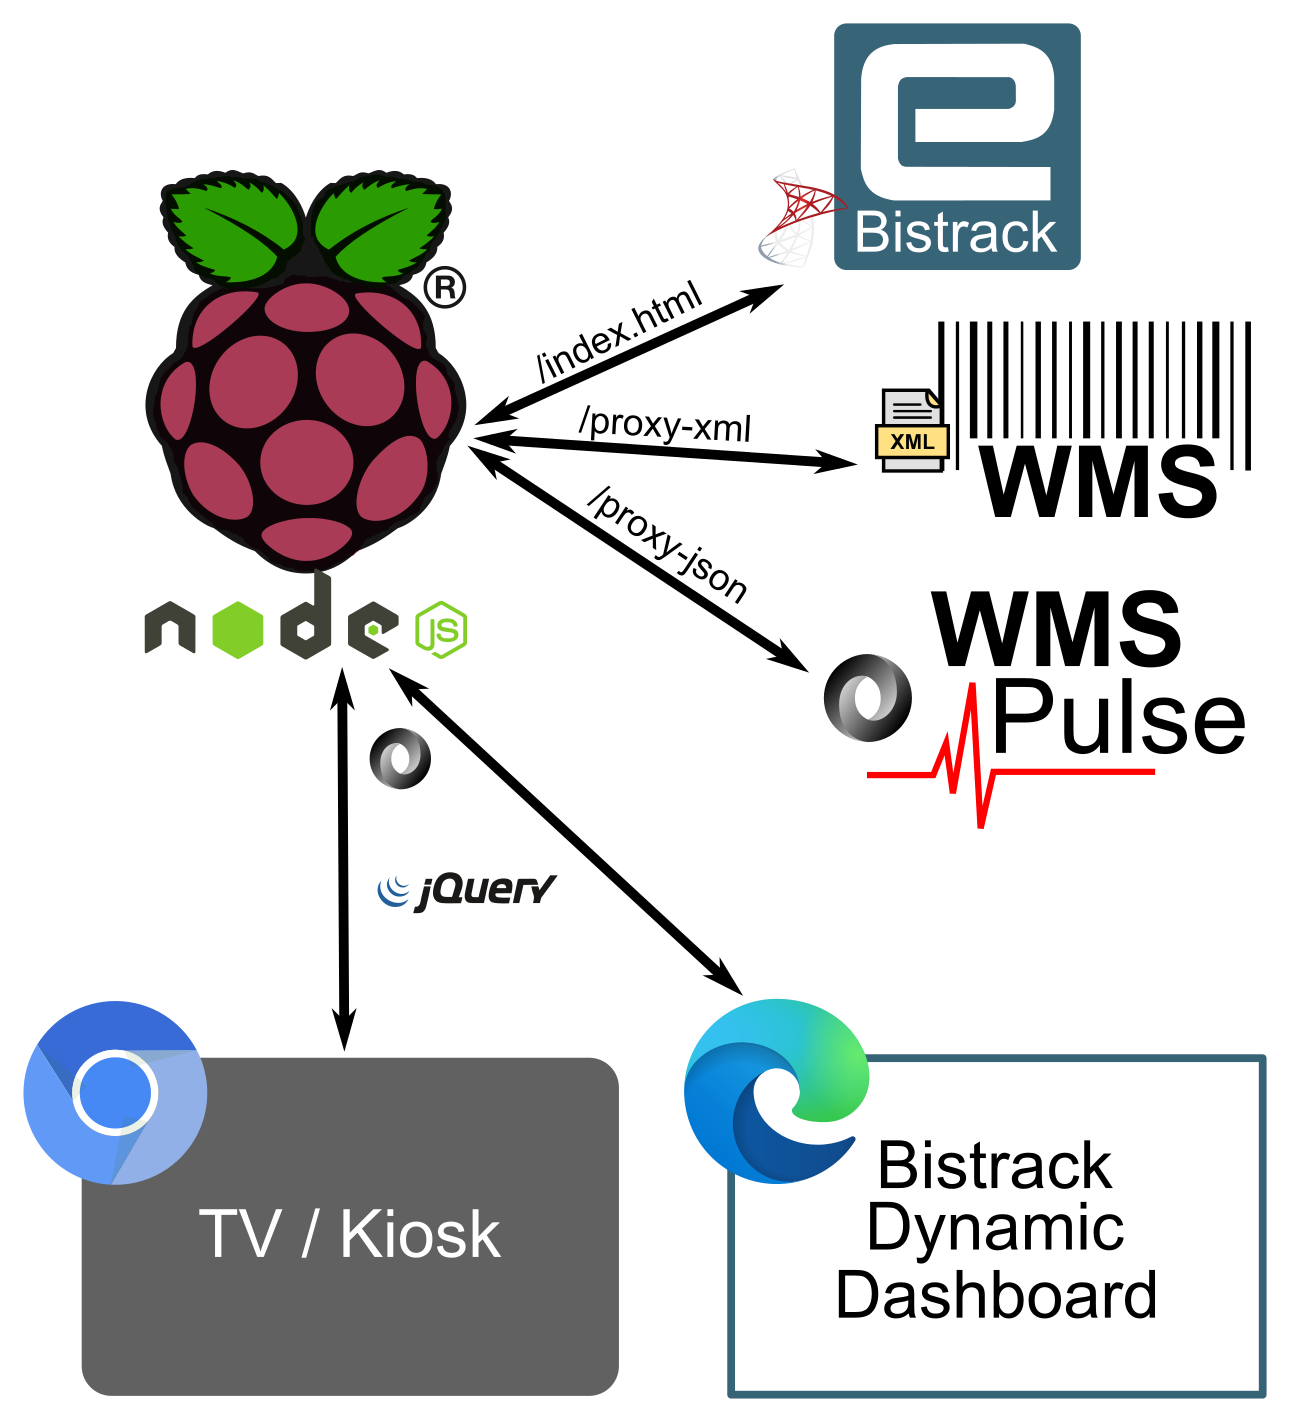
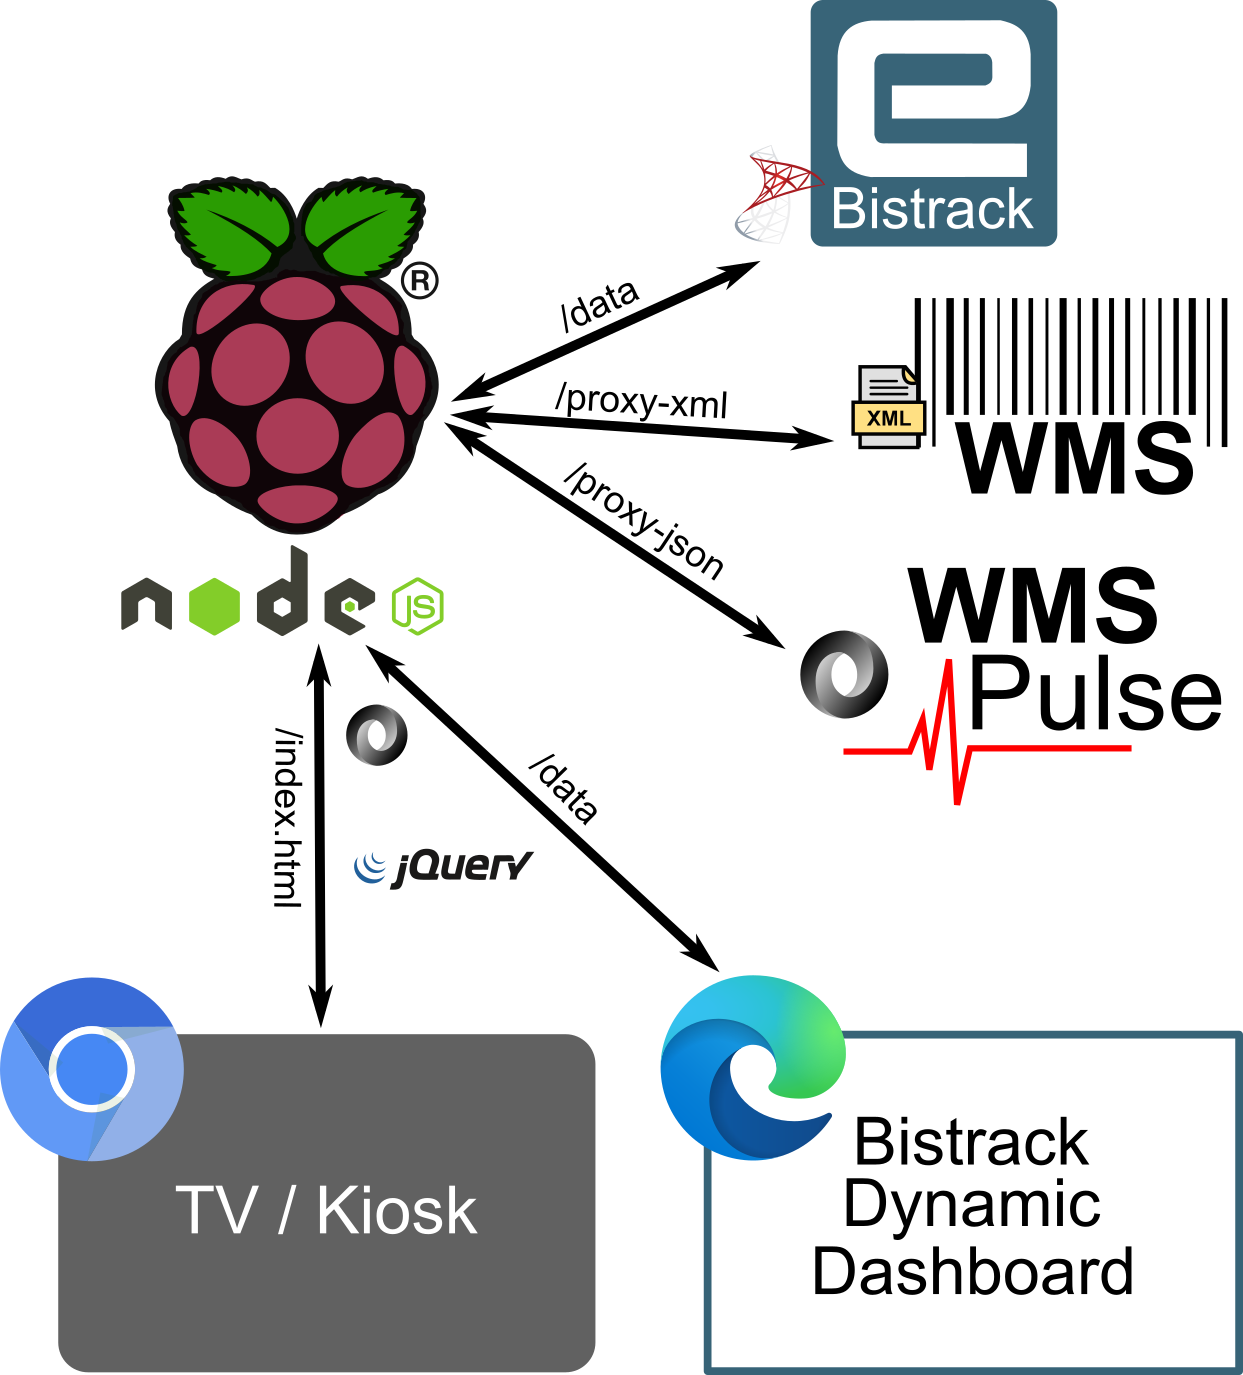
Finished nconf additions. Added /data GET route and documentation.

diff --git a/app.js b/app.js
@@ -45,7 +45,7 @@ const logger = winston.createLogger({
   }),
     winston.format.json()
   ),
-  // Log everything to to console and app.log, and only warnings and errors to error.log
+  // Log everything to to console and <appName>-YYYY-MM-DD.json, and only warnings and errors to error.json
   // Creates a valid JSON one line entry (no commas separating objects) for easy parsing line by line
   transports: [
     new winston.transports.Console({ format: winston.format.cli() }),
@@ -81,6 +81,9 @@ nconf.argv()
       // Default port
       port: 3000,
       interval: "*/30 8-17 * * 1-5"
+    },
+    database: {
+      connectionTimeout: 5000
     }
   })
   .required(['btpi', 'database', 'database:user', 'database:server', 'database:password', 'database:database', 'queries']);
@@ -88,7 +91,9 @@ nconf.argv()
 const queries = nconf.get('queries');
 const port = nconf.get('btpi:port');
 const intvl = nconf.get('btpi:interval');
-console.log(nconf.get("wms_proxy:host_xmlep"));
+const pulse = nconf.get('wms_proxy:host_pulse');
+const xmlep = nconf.get('wms_proxy:host_xmlep');
+//console.log("Doh: " + nconf.get("wms_proxy:host_xmlep"));
 // Publish the public folder
 app.use(express.static(path.join(__dirname, 'public')));
 
@@ -251,8 +256,44 @@ app.post('/data', (req, res) => {
 /* ======================================================================
   Route to handle GET requests to the /data route
   ======================================================================*/
+  // TODO: Left off here; document this route. Add logging for all catch() blocks with error details. Note that queries are cached and app must be restarted to refresh the queries.
 app.get('/data', (req, res) => {
-  res.status(200).send('Get /data route not implemented');
+  // Allow the client to request a specific query by name. Allow the "Name" parameter to be case insensitive.
+  // Note: The query name must exactly match (case sensitive) the "Name" property in the queries array.
+  let queryName = req.query.name || req.query.Name;
+  if (queryName) {
+      // Check if the query name exists in the queries array
+    const queryObj = queries.find(obj => obj.Name === queryName);
+    if (queryObj && queryObj.Enabled) {
+       checkConnection(nconf.get("database:connectionTimeout"), 3000, 4).then(() => {
+         // Connection is good, proceed with query execution
+         sql.connect(nconf.get("database")).then(() => {
+           // Execute the query
+           sql.query(queryObj.SQL).then((queryResults) => {
+             // Return the results as JSON
+             res.json(queryResults.recordsets[0]);
+           }).catch(() => {
+             // Query execution failed
+             res.status(500).send(`Query execution failed for "${queryName}." See log for details`);
+           }).finally(() => {
+              sql.close();
+           });
+         }).catch(() => {
+           // Connection failed
+            res.status(500).send(`Database connection failed for "${queryName}." See log for details`);
+         });
+       }).catch(() => {
+         // Connectivity check failed
+         res.status(500).send(`No internet connection or database connection failed for "${queryName}." See log for details`);
+       });
+    } else {
+      // If the query name is not found or not enabled, return a 404 error
+      logger.warn(`Query "${queryName}" not found or not enabled`);
+      res.status(404).send(`Query "${queryName}" not found or not enabled`);
+    }
+  } else {
+    res.status(200).send({ message: 'No query name specified. Please provide a query name using the Name parameter.' });
+  }
 })
 
 /* ======================================================================
@@ -338,6 +379,17 @@ async function getDataByProxy(req, res, responseType) {
   try {
     let errorMsg;
     if (req.query.api) {
+      // If an http protocol is not specified in the api URL, assume it should be prefixed with the configured WMS Pulse or XML endpoint
+      // This allows the client to pass in a relative path
+      if (!req.query.api.startsWith('http://') && !req.query.api.startsWith('https://')) {
+        logger.info(`Partial api value passed (${req.query.api}); prefixing with configured value`);
+        if(responseType === apiRepsonseType.XML) {
+          (xmlep) ? req.query.api = `${xmlep}${req.query.api}` : logger.warn(`No WMS XML endpoint configured (wms_proxy.host_xmlep); unable to prefix relative path`);
+        } else {
+          (pulse) ? req.query.api = `${pulse}${req.query.api}` : logger.warn(`No WMS Pulse endpoint configured (wms_proxy.host_pulse); unable to prefix relative path`);
+        }
+        logger.info(`api = ${req.query.api}`);
+      }
       let params = "";
       // Build the parameters back if they were split out
       for (const key in req.query) {

diff --git a/README.md b/README.md
@@ -43,7 +43,41 @@ An example queries.json config file:
 }
 ```
 
-BTPi access to the Bistrack database was intended to support BI displayed on a large TV or monitor for non-interactive viewing. An example index.html file displays query results in a tabular format:
+### Data Routes
+
+The /data route allows all queries to be run at once (POST) or individually by query Name (GET) depending on the HTTP method invoked.
+
+The POST invocation was intended for use with a "Submit" button to refresh all the data and will create JSON files for each enabled query while also setting the 'Last-Modified' header in the response to the current timestamp.
+
+Calling the /data route using GET allows individual queries (must be enabled in Queries.json) to be called ad-hoc using the appropriate "Name" parameter. The response is returned in JSON. A client-side example is shown below:
+
+```
+$.ajax({
+  // The data route expects a query name to be passed in the "Name" parameter.
+  url: "/data",
+  data: {
+    Name: "LastApproved",
+  },
+  cache: false,
+  dataType: "json",
+  contentType: "application/json; charset=utf-8",
+  method: "GET",
+  success: function (data) {
+    if (data) {
+      ...
+    } else {
+      console.log("No data returned from the server.");
+    }
+  },
+  error: function (error) {
+    console.error(error);
+  },
+});
+```
+
+### Landing Page and RPi
+
+BTPi access to the Bistrack database was intended to support BI displayed on a large TV or monitor for non-interactive viewing. The default landing page is index.html which displays query results in a tabular format:
 
 <a href="public/images/screenshot.png">
     <img src="public/images/screenshot.png" alt="Screenshot" width="30%" height="30%" border="1">
@@ -51,7 +85,7 @@ BTPi access to the Bistrack database was intended to support BI displayed on a l
 <br /><br />
 When accessing Bistrack data, the RPi serves as both the server and client.
 
-### Server (app.js)
+#### Server (app.js)
 
 - The service app.js listens on a (configurable) port
   - The winston module creates error and info logs and rotates daily (14 days kept)
@@ -59,11 +93,12 @@ When accessing Bistrack data, the RPi serves as both the server and client.
   - Each enabled query is also added to a global schedule (node-schedule) and executed with the output saved as a JSON file
   - A list of successful queries (name, title, & filepath only) is written to /public/data/queryList.json for JQuery access
   - POST to /data will run all enabled queries and set the 'Last-Modified' header in the return to the timestamp
+  - GET to /data with a corresponding "Name" parameter will run the specified query (must be enabled) in queries.json
 - The public folder is published as the HTML root and index.html served to the user by default
 - Query results are written to /public/data as JSON files (consumed by AJAX in index.html)
 - Optional: PM2 manages the server process and automatically starts on reboot
 
-### Client (chromium-browser)
+#### Client (chromium-browser)
 
 - Default chromium-browser is used to launch index.html in kiosk mode (<a href="RPIConfig.md#rpi-autostart">see also ~/.config/autostart</a>)
 - index.html utilizes a META refresh to automatically refresh (separate from node-schedule)
@@ -78,14 +113,18 @@ When accessing Bistrack data, the RPi serves as both the server and client.
 
 <p align="right">(<a href="#readme-top">back to top</a>)</p>
 
-## Proxy Mode
+## Proxy Routes
 
 Epicor's WMS system utilizes a combination of XML endpoints and a "Pulse board" application for reporting. Accessing this data programatically traditionally faced one of two hurdles:
 
 1. The returned data is in XML format or
 2. The server blocks cross-origin requests.
 
-BTPi’s proxy mode addresses both issues by accepting an "api" URL parameter, which is then requested via proxy with an unrestrictive Cross-Origin Resource Sharing (CORS) policy. For JSON requests, an additional "X-Requested-With" header is also sent to mimic an AJAX call. The endpoint data is returned in a response object as JSON. Depending on the type of endpoint being consumed, two routes are provided:
+BTPi’s proxy mode addresses both issues by accepting an "api" URL parameter, which is then requested via proxy with an unrestrictive Cross-Origin Resource Sharing (CORS) policy. For JSON requests, an additional "X-Requested-With" header is also sent to mimic an AJAX call. The endpoint data is returned in a response object as JSON.
+
+_Note:_ Configuring wms_proxy.host_pulse and/or wms_proxy.host_xmlep (see config-EXAMPLE.json) enables relative paths to be used in client side code.
+
+Depending on the type of endpoint being consumed, two routes are provided:
 
 1. **/proxy-xml**: The <a href="WMSEndpoints.md">various (undocumented) XML endpoints</a> were originally exposed for QlikView consumption, but contain useful data for BI developers. BTPi implements a GET method route /proxy-xml for these XML endpoints to access and convert the data to JSON. Note the JSON data path on the returned data will typically match the following pattern:
 
@@ -114,7 +153,13 @@ BTPi’s proxy mode addresses both issues by accepting an "api" URL parameter, w
 
 2. **/proxy-json**: Separately, Pulse Queries created in the WMS “Web UI” (More --> Pulse --> Pulse Query Entry) can be accessed using the /proxy-json GET route. This route bypasses the Cross-Origin Resource Sharing (CORS) policy and returns a JSON response object.
 
-Both WMS proxy routes (/proxy-xml and /proxy-json) can be accessed from a Dynamic Dashboard within BisTrack (e.g., fetch/JQuery). The following example shows the results of a call to the InventoryBySCE (/proxy-xml) for a selected product from within a Dynamic Dashboard:
+### Examples
+
+Both WMS proxy routes (/proxy-xml and /proxy-json) can be accessed from a Dynamic Dashboard within BisTrack (e.g., fetch/JQuery).
+
+#### XML (/proxy-xml)
+
+The following example shows the results of a call to the InventoryBySCE (/proxy-xml) for a selected product from within a Dynamic Dashboard:
 
 <a href="public/images/wms-product-bt.png">
     <img src="public/images/wms-product-bt.png" alt="Dashboard example" width="30%" height="30%" border="1">
@@ -129,6 +174,7 @@ The above example was generated with the following client-side JavaScript:
       // proxy-xml expects XML data and returns it as a JSON object
       url: "http://<BTPi-Server>:<port>/proxy-xml",
       data: {
+        // If wms_proxy.host_xmlep is configured, use relative path /rtiWeb/run?id=InventoryBySCE
         api: "http://<WMS-Endpoint>:<port>/rtiWeb/run?id=InventoryBySCE",
         stock_code: "DP-DPSB-4x6x12",
       },
@@ -172,11 +218,14 @@ The above example was generated with the following client-side JavaScript:
 </script>
 ```
 
+#### JSON (/proxy-json)
+
 Client-side code for a connection for a WMS Pulse query might resemble:
 
 ```sh
    url: "http://<BTPi-Server>:<port>/proxy-json",
    data: {
+      // If wms_proxy.host_pulse is configured, use relative path /Pulse/Query/runQuery
       api: "http://<WMS-Endpoint>:<port>/Pulse/Query/runQuery",
       // The "id" parameter should match your Pulse Query
       id: "lines_shipped_last_7_days",
